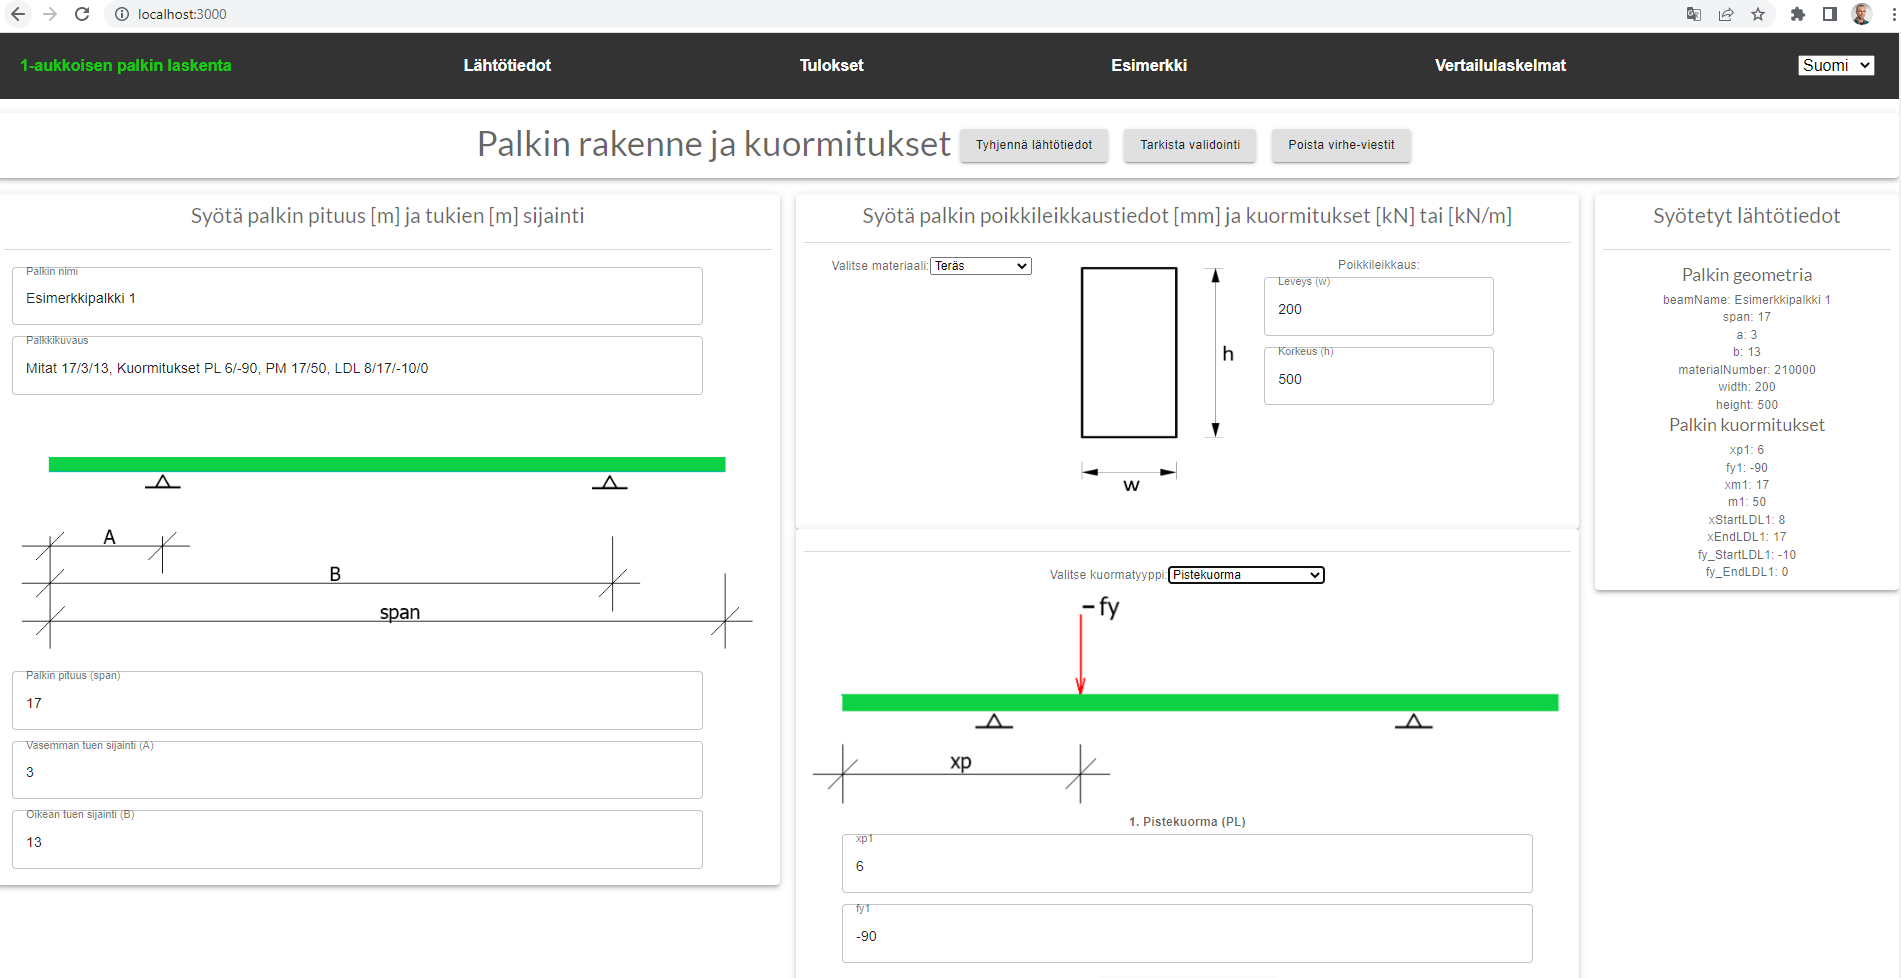
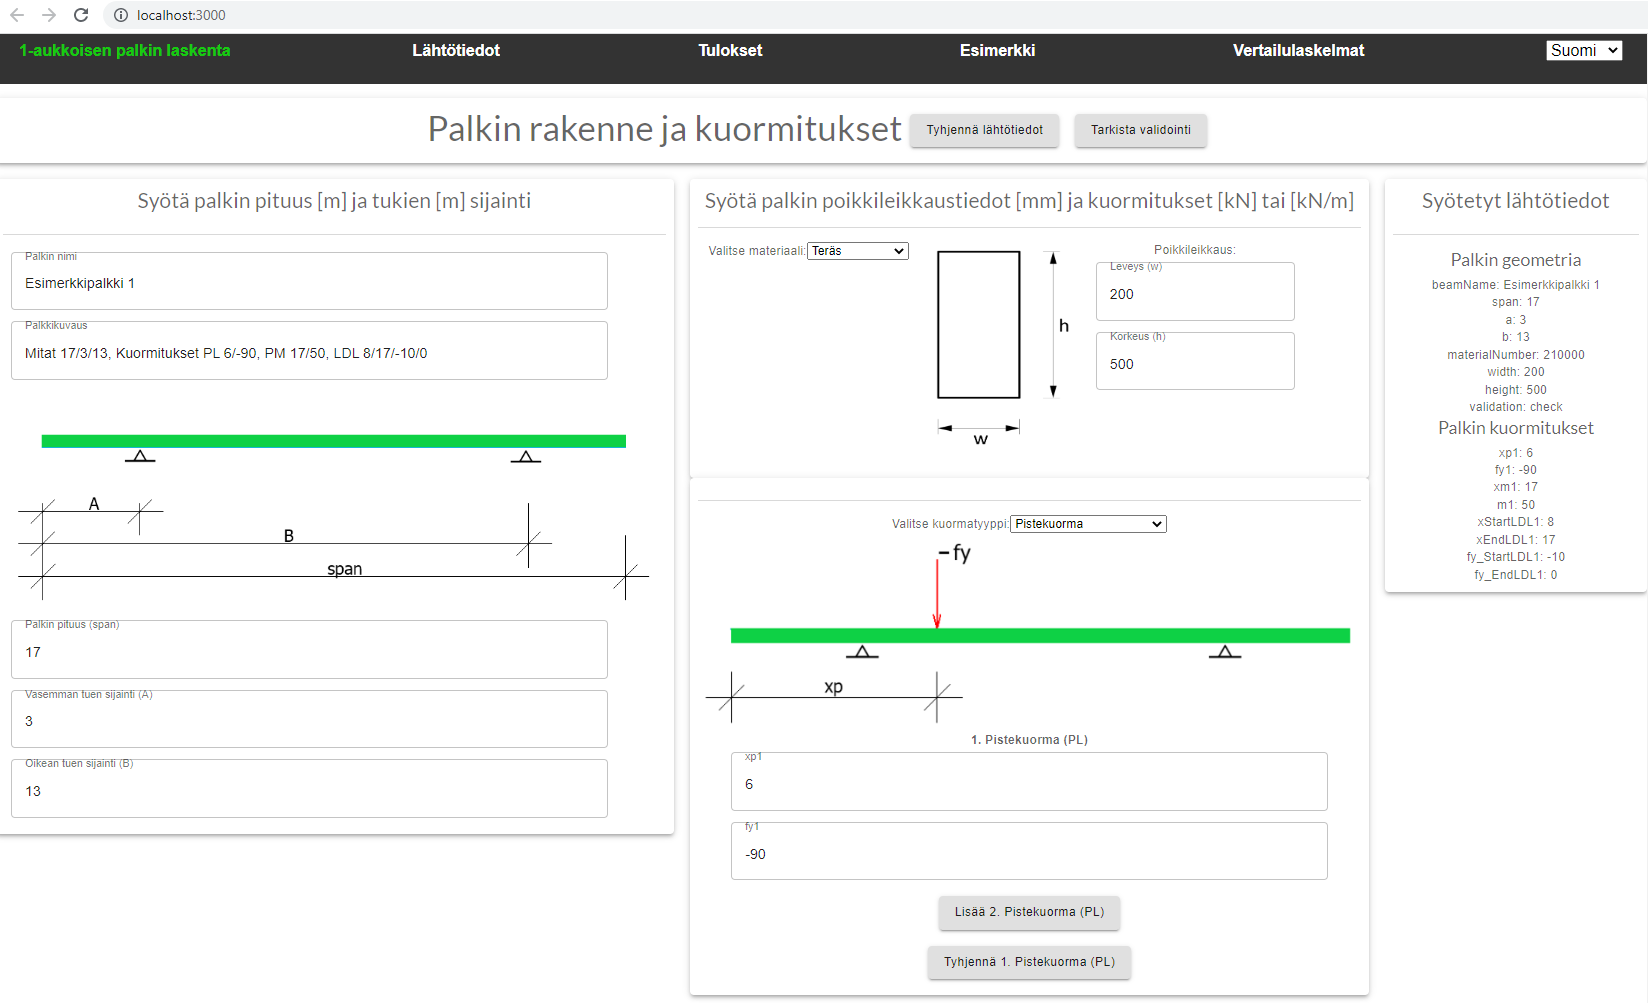
Fixed validation

diff --git a/react-app/src/components/input/InputBeamForm.tsx b/react-app/src/components/input/InputBeamForm.tsx
@@ -58,11 +58,17 @@ export default function InputBeamForm() {
       temp.span = fieldValues.span > 0 ? "" : "Luku pitää olla > 0.";
     if ("a" in fieldValues)
       temp.a =
-        fieldValues.a > -1 && fieldValues.a.length != 0
+        parseFloat(fieldValues.a) >= 0 &&
+        parseFloat(fieldValues.a) < parseFloat(fieldValues.span)
           ? ""
-          : "Luku pitää olla >= 0.";
+          : "Luku pitää olla 0 <= B < span";
     if ("b" in fieldValues)
-      temp.b = fieldValues.b > 0 ? "" : "Luku pitää olla > 0.";
+      temp.b =
+        parseFloat(fieldValues.b) > 0 &&
+        parseFloat(fieldValues.b) > parseFloat(fieldValues.a) &&
+        parseFloat(fieldValues.b) <= parseFloat(fieldValues.span)
+          ? ""
+          : "Luku pitää olla B > 0 ja A < B <= span";
 
     setErrors({
       ...temp,
@@ -71,8 +77,15 @@ export default function InputBeamForm() {
     if (fieldValues == values) return Object.values(temp).every((x) => x == "");
   };
 
-  const { values, setValues, errors, setErrors, handleInputChange, resetForm } =
-    useForm({ initialFValues, validateOnChange: true, validate });
+  const {
+    values,
+    setValues,
+    errors,
+    setErrors,
+    handleInputChange,
+    resetForm,
+    checkForm,
+  } = useForm({ initialFValues, validateOnChange: true, validate });
 
   const dispatch = useDispatch();
   const arvot = useSelector((state: any) => state.input.input);
@@ -105,19 +118,11 @@ export default function InputBeamForm() {
   }, [arvot]);
 
   useEffect(() => {
-    if (arvot.validation) {
+    if (arvot.validation === "check") {
+      console.log("Check");
       if (validate()) {
-        resetForm();
+        checkForm();
       }
-
-      dispatch(
-        addInput({
-          validation: false,
-        })
-      );
-    }
-    if (arvot.validation === "empty") {
-      resetForm();
     }
   }, [arvot]);
 

diff --git a/react-app/src/components/input/SectionForm.tsx b/react-app/src/components/input/SectionForm.tsx
@@ -143,8 +143,15 @@ const SectionForm: FC<Props> = () => {
       return Object.values(temp).every((x) => x === "");
   };
 
-  const { values, setValues, errors, setErrors, handleInputChange, resetForm } =
-    useForm({ initialFValues, validateOnChange: true, validate });
+  const {
+    values,
+    setValues,
+    errors,
+    setErrors,
+    handleInputChange,
+    resetForm,
+    checkForm,
+  } = useForm({ initialFValues, validateOnChange: true, validate });
 
   // const handleSubmit = (e) => {
   //   e.preventDefault();
@@ -154,21 +161,11 @@ const SectionForm: FC<Props> = () => {
   //   }
   // };
   useEffect(() => {
-    // e.preventDefault();
-    if (arvot.validation) {
+    if (arvot.validation === "check") {
+      console.log("Check");
       if (validate()) {
-        // employeeService.insertEmployee(values);
-        resetForm();
+        checkForm();
       }
-
-      dispatch(
-        addInput({
-          validation: false,
-        })
-      );
-    }
-    if (arvot.validation === "empty") {
-      resetForm();
     }
   }, [arvot]);
 

diff --git a/react-app/src/components/input/ButtonBeamForm.tsx b/react-app/src/components/input/ButtonBeamForm.tsx
@@ -29,11 +29,7 @@ const ButtonBeamForm: FC<ButtonProps> = () => {
   };
 
   const handleValidateInputs = () => {
-    dispatch(addInput({ validation: true }));
-  };
-
-  const handleRemoveErrors = () => {
-    dispatch(addInput({ validation: "empty" }));
+    dispatch(addInput({ validation: "check" }));
   };
 
   return (
@@ -49,9 +45,6 @@ const ButtonBeamForm: FC<ButtonProps> = () => {
               </Button>
               <Button variant="contained" onClick={handleValidateInputs}>
                 {t("buttonbeamform:check")}
-              </Button>
-              <Button variant="contained" onClick={handleRemoveErrors}>
-                {t("buttonbeamform:removeErrors")}
               </Button>
             </Stack>
           </Item>

diff --git a/react-app/src/components/useForm.tsx b/react-app/src/components/useForm.tsx
@@ -63,6 +63,11 @@ export function useForm({
     );
   };
 
+  const checkForm = () => {
+    // setValues(initialFValues);
+    setErrors({});
+  };
+
   const resetForm = () => {
     setValues(initialFValues);
     setErrors({});
@@ -75,5 +80,6 @@ export function useForm({
     setErrors,
     handleInputChange,
     resetForm,
+    checkForm,
   };
 }

diff --git a/react-app/README.md b/react-app/README.md
@@ -16,9 +16,8 @@ Syötä palkin pituus ja tukien sijainnit.
 Kuormien syötössä valitse ensin kuormatyyppi (forceType) alasvetovalikosta ja anna kuormituksen arvot. Syötetyt arvot näkyvät oikeassa laidassa.
 Ylalaidan napit:
 
-- Tyhjennä lähtötiedot (tyhjentää kaikki lähtötietokentät)
-- Tarkista validointi (tarkistaa syöttökentät palkin pituuksien, tukien ja poikkileikkauksen syötön osalta)
-- Poista virhe-viestit (voidaan erikseen poistaa validoinnissa syntyneet virheviestit)
+- Tyhjennä lähtötiedot (Tyhjentää kaikki lähtötietokentät.)
+- Tarkista validointi (Tarkistaa syöttökentät palkin pituuksien, tukien ja poikkileikkauksen syötön osalta. Syöttökentän alalaitaan ilmestyy virheilmoitus, jos kenttään syötetty vääränmuotoinen arvo.)
 
 Kun olet syöttänyt kaikki lähtötiedot, mene Tulokset-välilehdelle.
 ![Kuva](./src/images/layout_tulokset_ennen_laskentaa.png)
@@ -38,7 +37,7 @@ Tallennetut tulokset saat näkyviin painamalla Tulokset-välilehden Tallennetut 
 - material-ui
 - react-bootstrap
 - redux (tilan hallinta ja keskittäminen)
-- react-i18next (sivujen käännökset)
+- react-i18next (sivujen käännökset: Suomi/English )
 - axios (http pyynnöt tietokantaan)
 
 ## Vinkkejä
@@ -54,4 +53,4 @@ Vertailulaskelmat muilla laskenohjelmilla löytyvät Example- ja Comparison Resu
 - Syötteiden päivitys (tallennetun laskennan muuttaminen)
 - PDF-tulosten laskennasta
 
-Copyright © Timo Kivelä
+Copyright © Timo Kivelä 2023

diff --git a/BeamAPI/README.md b/BeamAPI/README.md
@@ -58,4 +58,4 @@ Beams- ja Types-taulut on (one to many kytköksellä) yhdistetty. Eli yhdellä p
 Beams-taulu sisältää palkin dimensiot (pituus ja tuet) ja laskennan tuloksena saadut leikkausvoima- ja taivutusmomentien maksimiarvot.
 Types-tauluun tulostuu syötetyt kuormitukset.
 
-Copyright © Timo Kivelä
+Copyright © Timo Kivelä 2023

diff --git a/README.md b/README.md
@@ -21,4 +21,4 @@ Alkunäkymä:
 ![Kuva](./react-app/src/images/layout_start.png)
 Huom! Jos käynnistys ei onnistu, varmista ensin onko localhost-portit oikein.
 
-Copyright © Timo Kivelä
+Copyright © Timo Kivelä 2023
